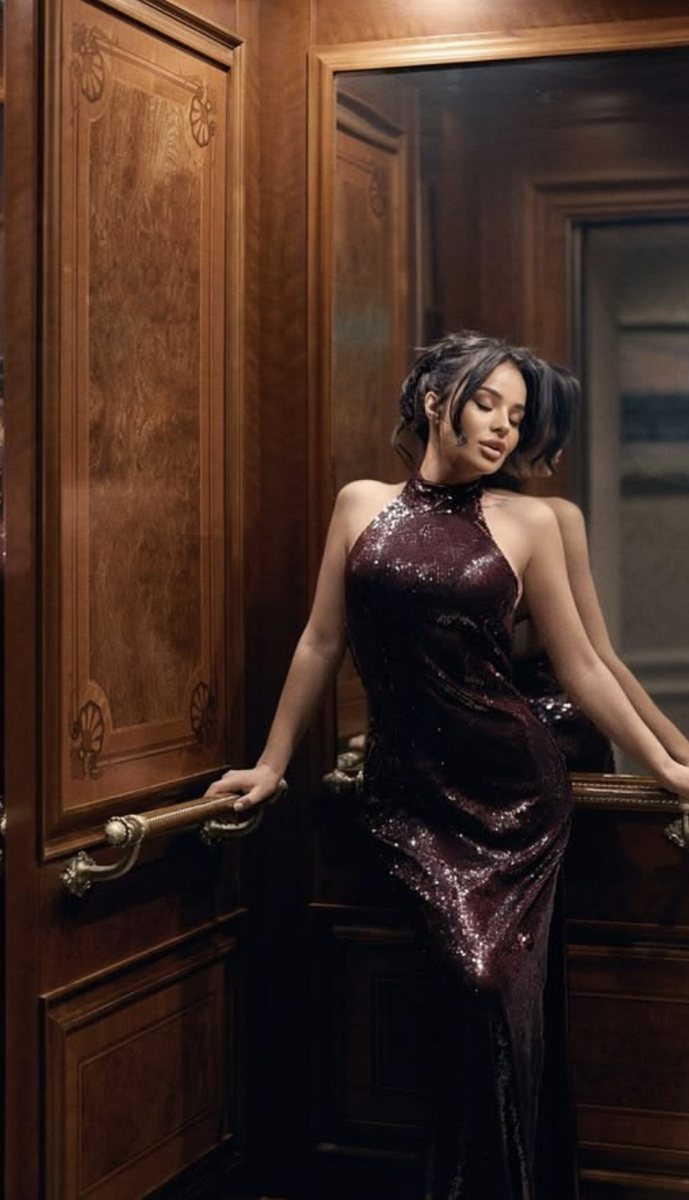
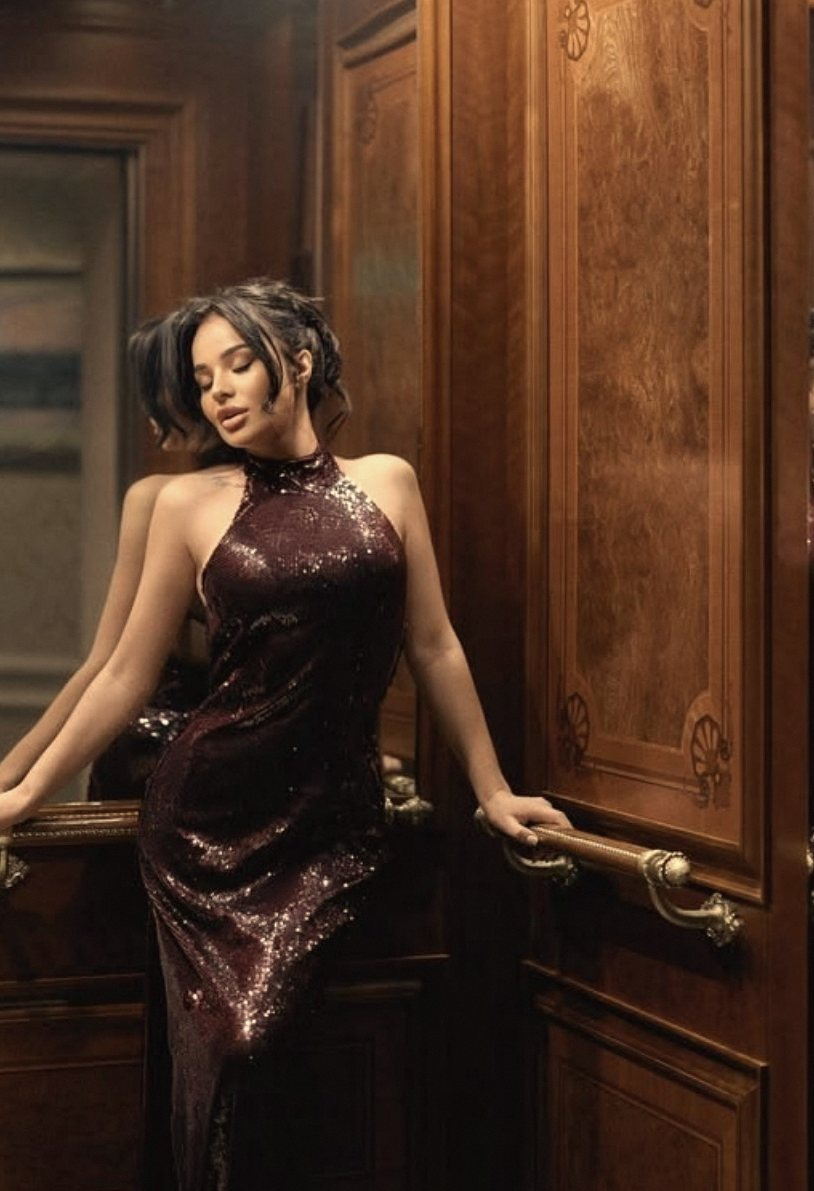
Edit heroes: warm Luxella grade, mirrored, frame removed, Bodoni gold captions
Claude-Session: https://claude.ai/code/session_012HsyhCr11joboq37fXQ3ki

diff --git a/style.css b/style.css
@@ -3929,3 +3929,10 @@ body:has(.ed-sh) .ed-pill{display:none}
 .ft2 .ft-go{background:#17110b!important;color:#f1d58e!important;border:0!important;backdrop-filter:none!important}
 .ft2 .ft-nav{padding:16px 18px 0}.ft2 .ft-ct{color:#6b5a45}.ft2 .ft-dots i{background:rgba(23,17,11,.2)}.ft2 .ft-dots i.on{background:#17110b}
 .ed-pill{bottom:calc(150px + env(safe-area-inset-bottom))!important}
+/* edit hero v3 — no frame, Luxella type */
+.cu-fr{display:none!important}
+.cu-hero figcaption small{font:italic 400 18px 'Lx Playfair','Lux Display',Georgia,serif!important;letter-spacing:.01em!important;text-transform:none!important;color:#f1d58e!important}
+.cu-hero figcaption b{font:400 clamp(22px,6.6vw,30px)/1.08 'Lx Bodoni',Georgia,serif!important;font-style:normal!important;text-transform:uppercase;letter-spacing:.06em;background:linear-gradient(180deg,#fffaf0 0%,#f6e3b0 55%,#d9b765 100%);-webkit-background-clip:text;background-clip:text;color:transparent!important;text-shadow:none!important;filter:drop-shadow(0 2px 10px rgba(0,0,0,.55))}
+.cu-hero figcaption span{font:500 9px 'Lux Label',sans-serif!important;letter-spacing:.22em!important;color:#e9dcc0!important;padding-top:8px;border-top:1px solid rgba(241,213,142,.45);display:inline-block!important;margin-top:4px}
+.cu-hero{box-shadow:0 24px 50px rgba(0,0,0,.5)}
+.cu[data-g="Women"] .cu-hero img{object-position:30% 25%!important}
